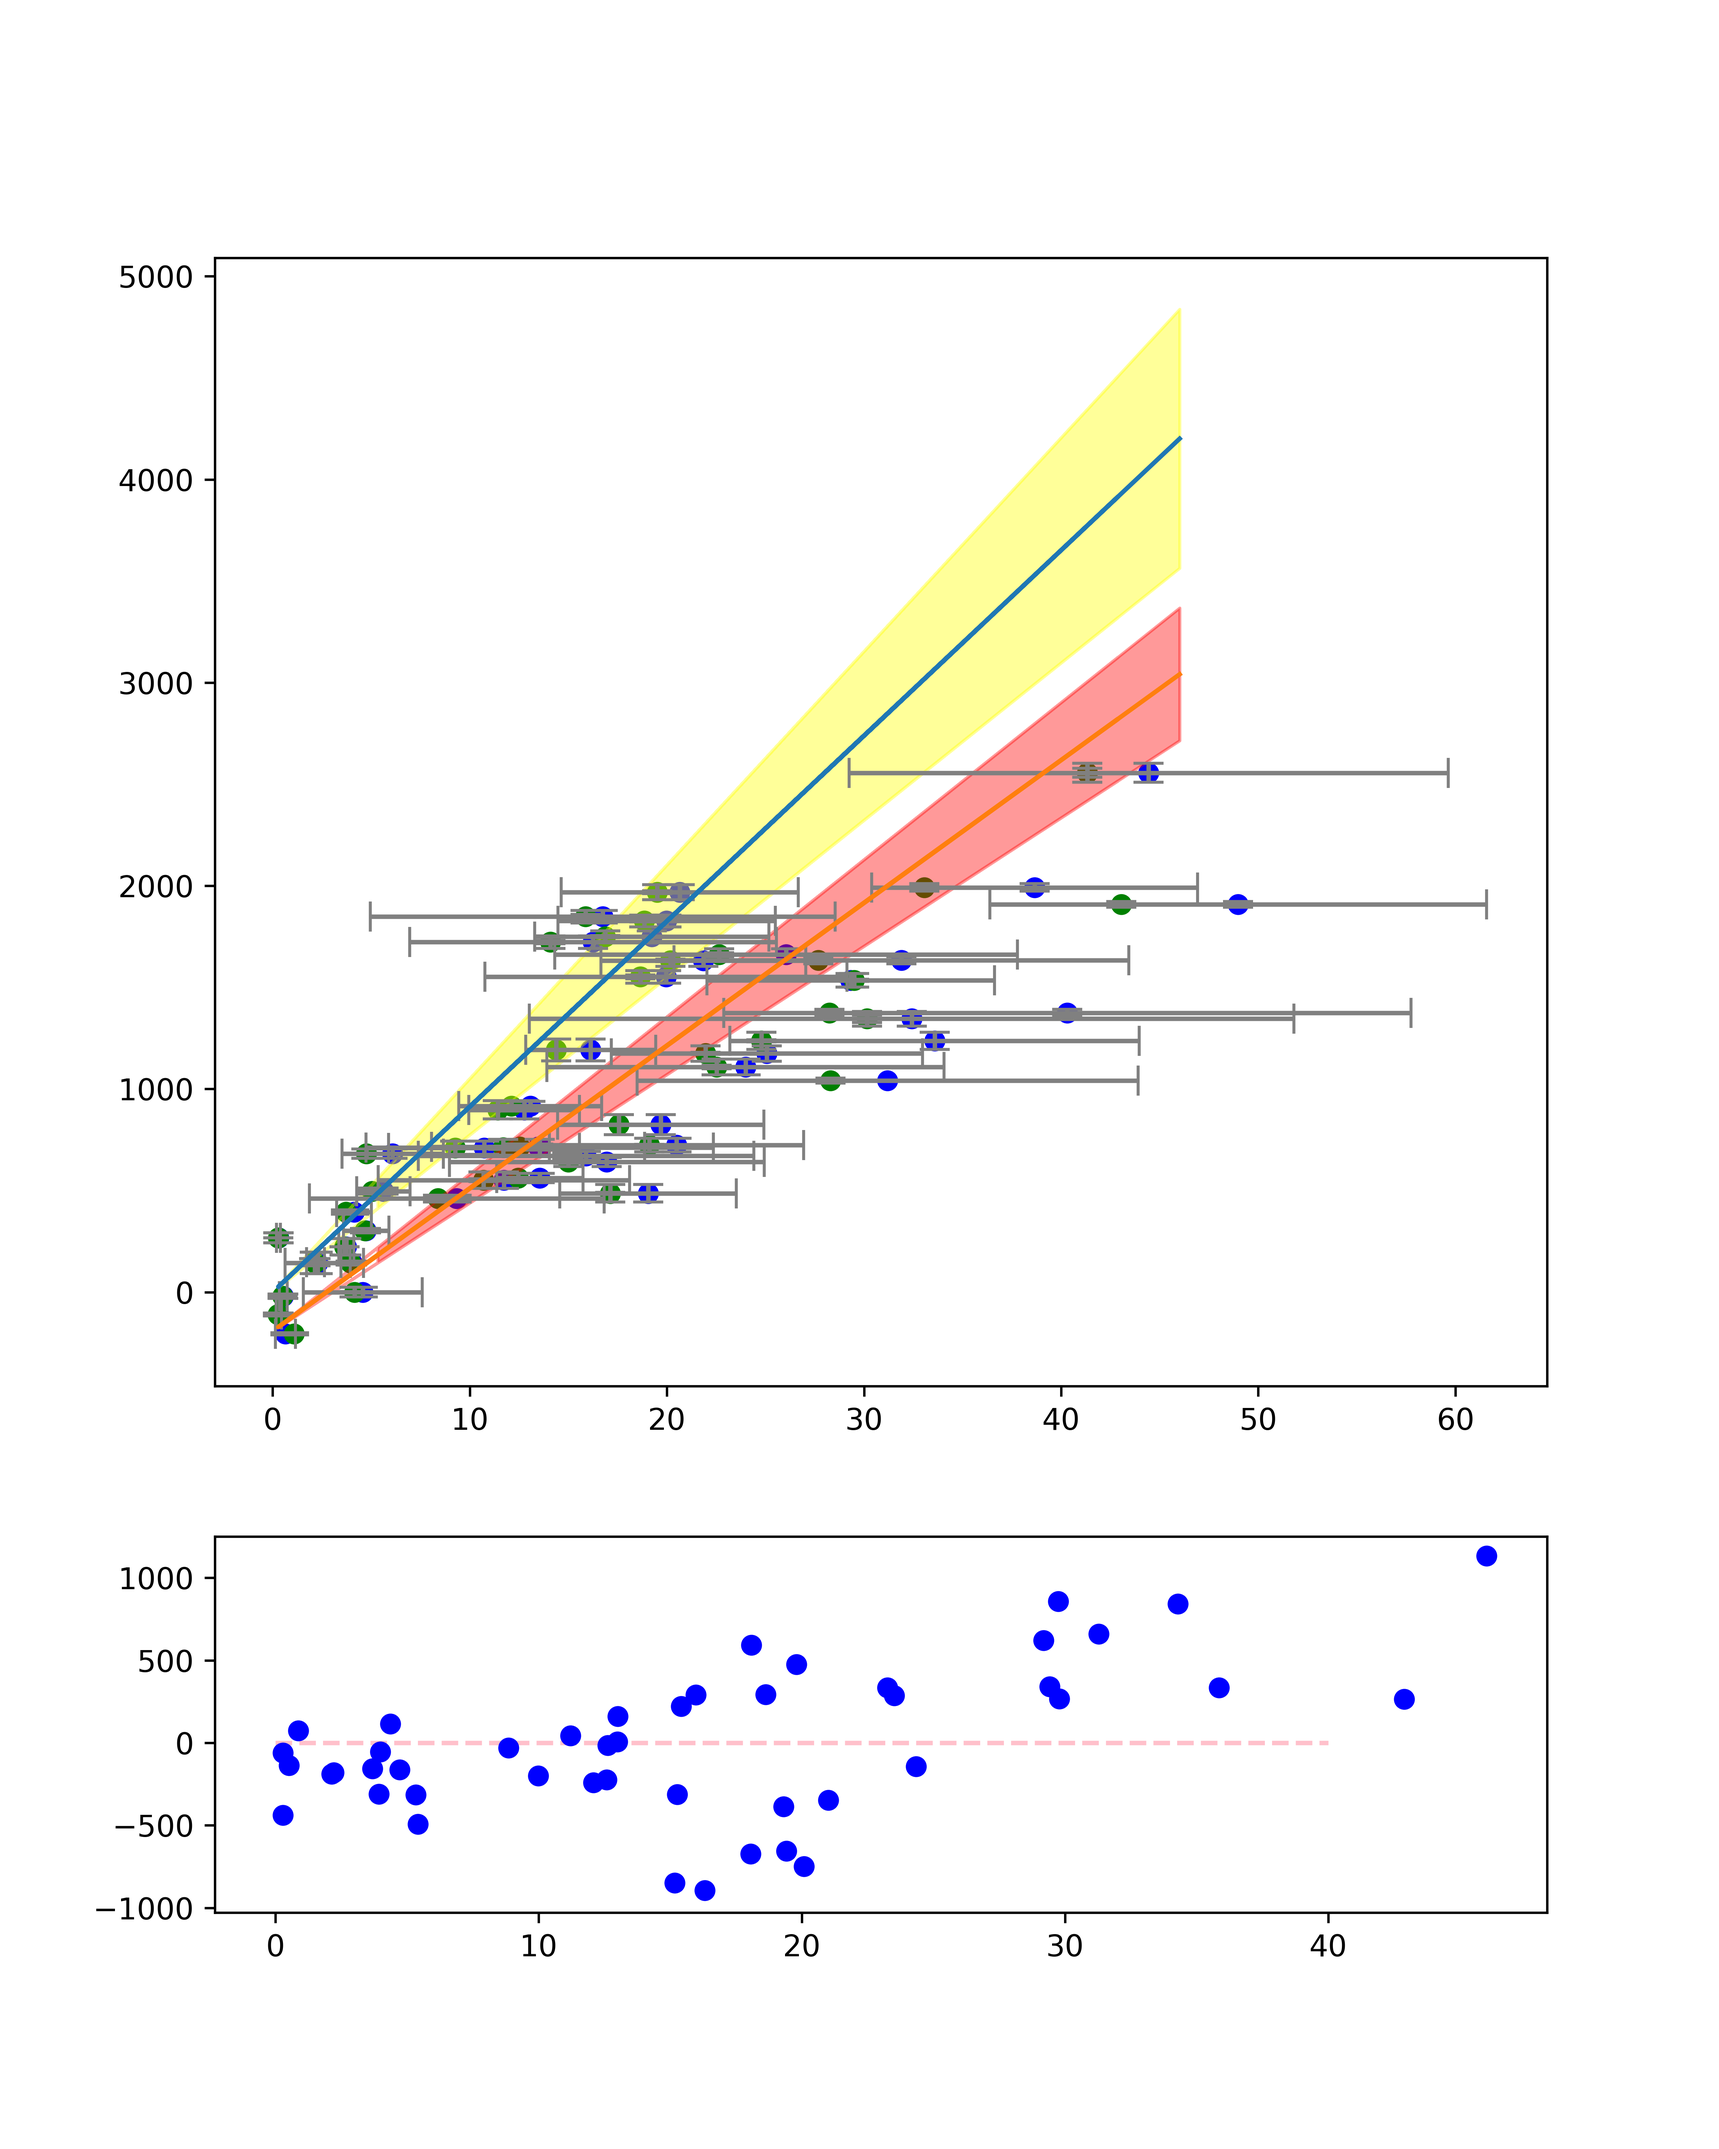
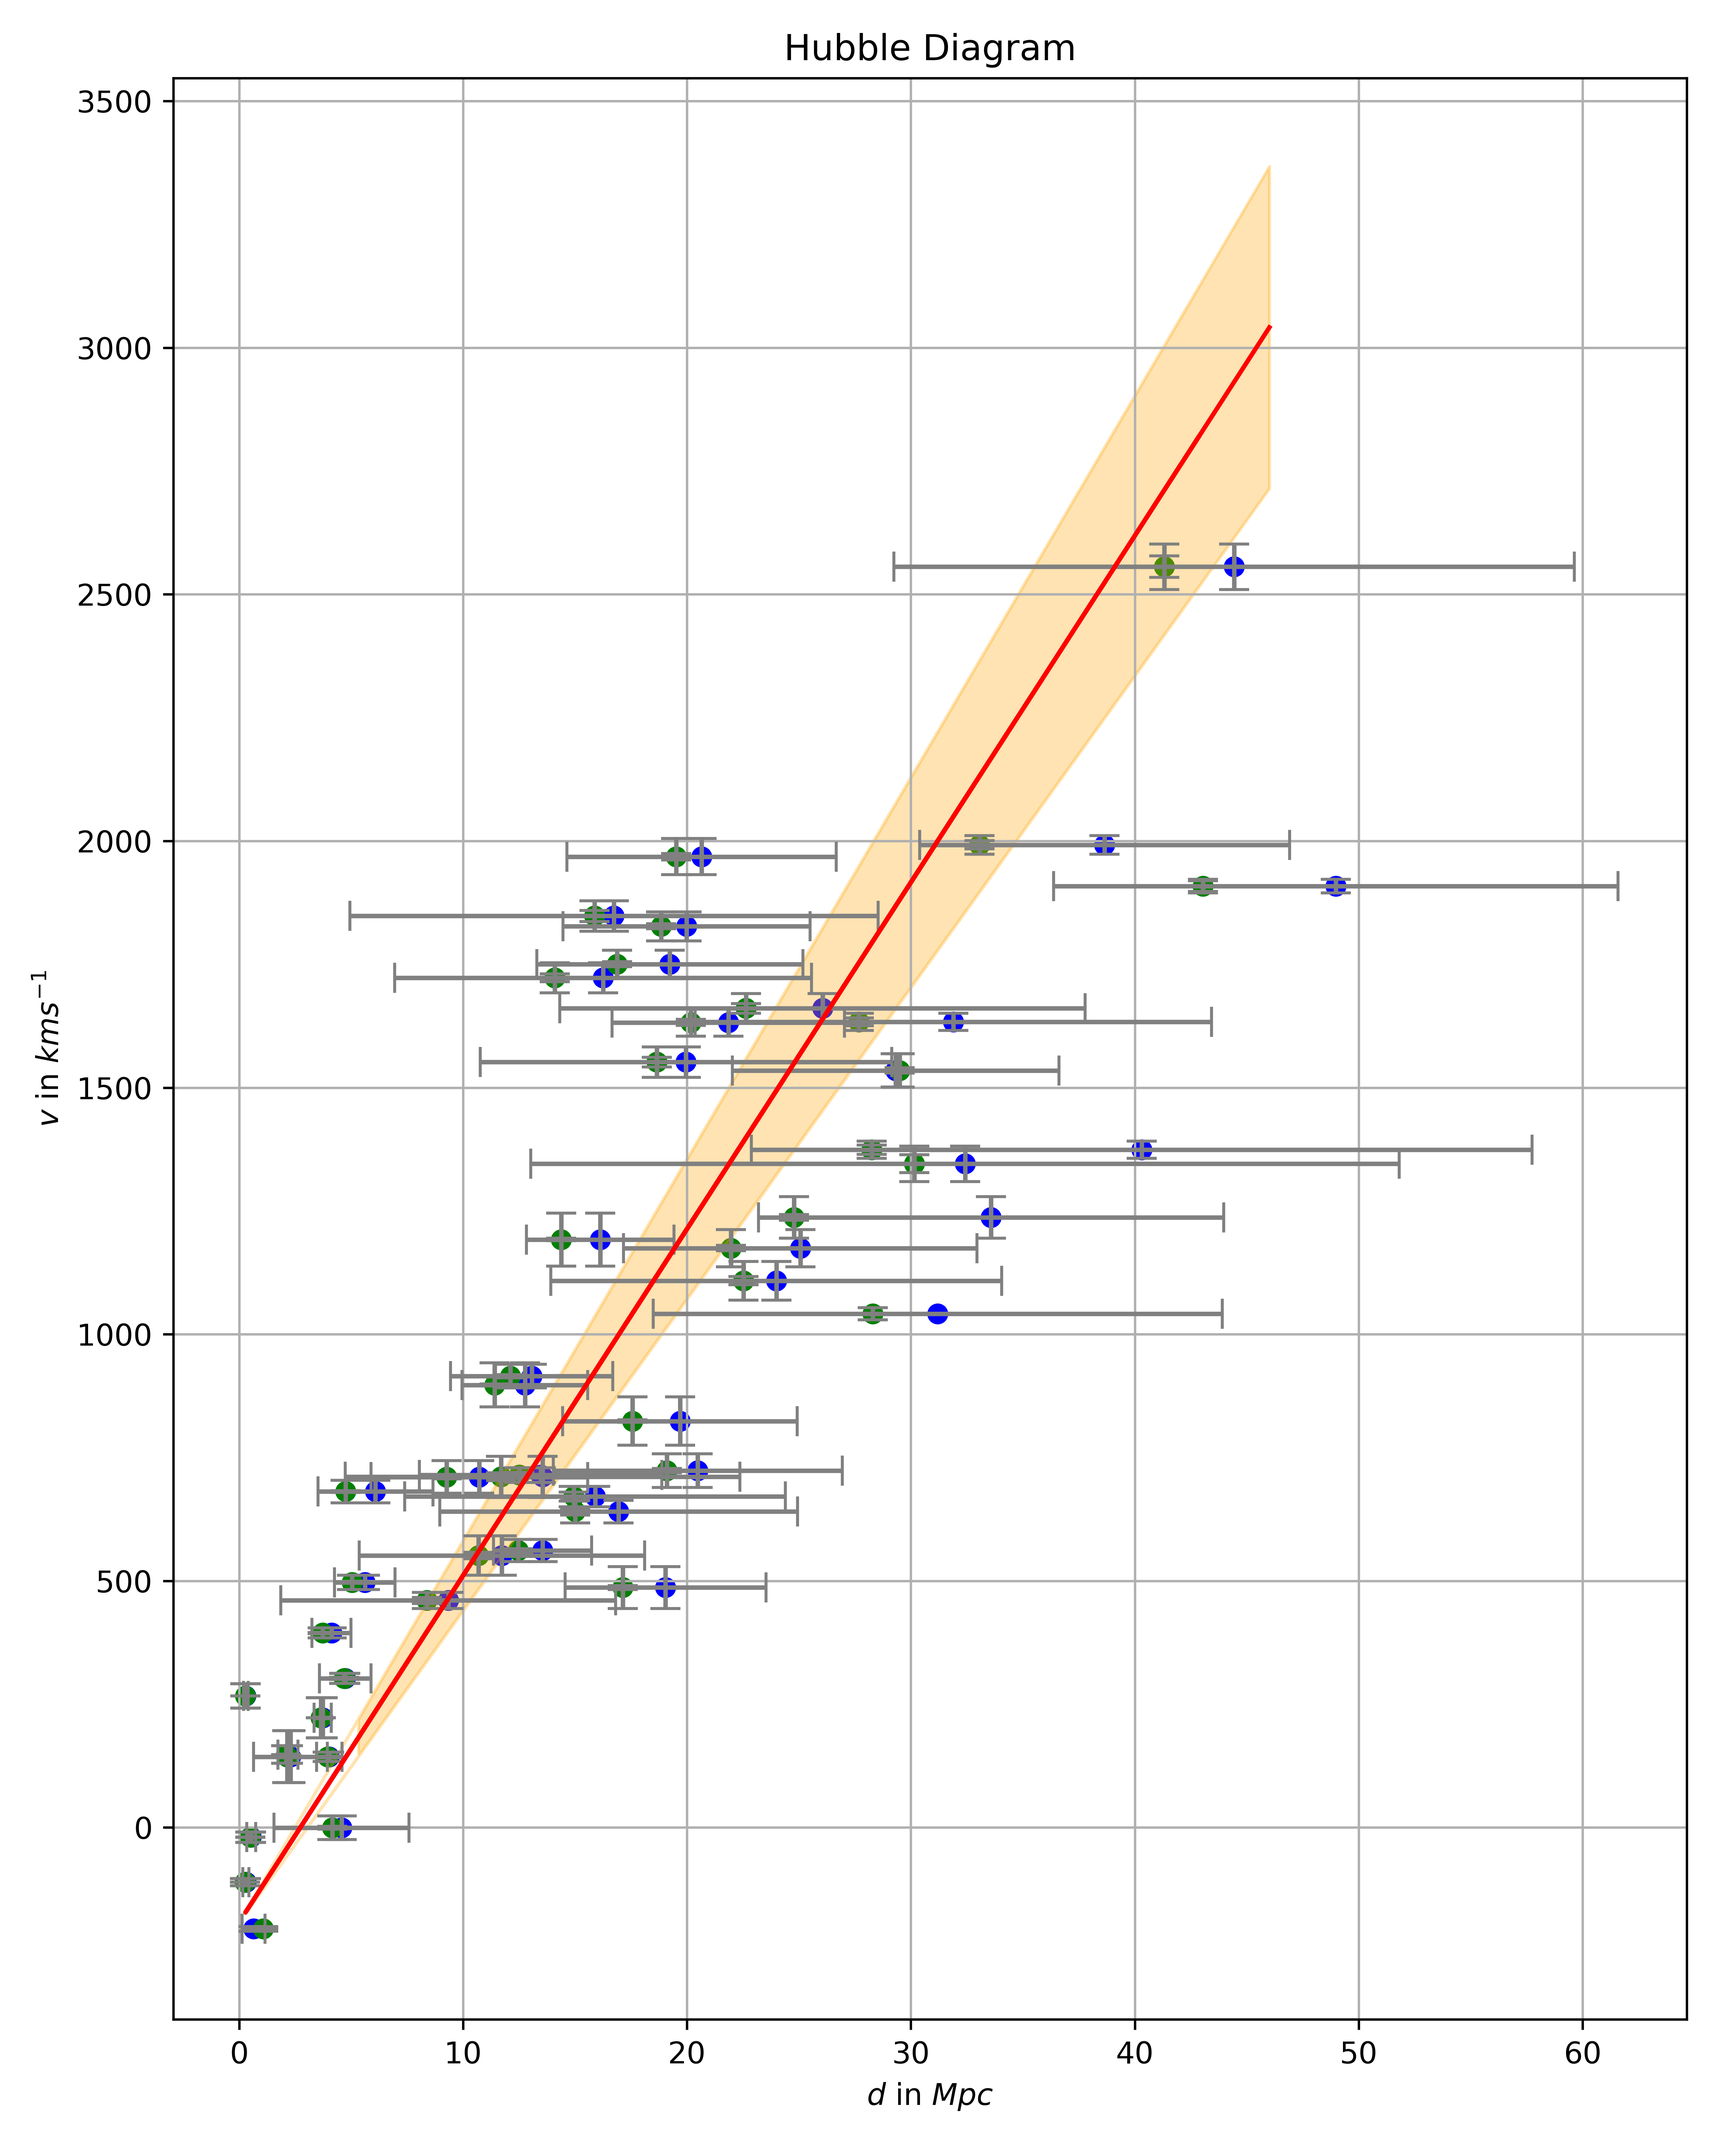
dev code finished

diff --git a/dev/dev_hubbleconstant.py b/dev/dev_hubbleconstant.py
@@ -100,17 +100,20 @@ v_error = [data/1000000 for data in v_error]
 i_data = [data/1000000 for data in i_data]
 i_error = [data/1000000 for data in i_error]
 
-fig3, ax = plt.subplots(2, 1, figsize=(8, 10), gridspec_kw={'height_ratios': [3, 1]})
 
-ax[0].scatter(v_data, velocities_data, color='blue')
-ax[0].scatter(i_data, velocities_data, color='green')
+# starting figure
+fig3, ax = plt.subplots(1, 1, figsize=(8, 10))
 
-ax[0].errorbar(v_data, velocities_data, yerr=velocities_error, fmt='none', color='gray', capsize=5)
-ax[0].errorbar(v_data, velocities_data, xerr=v_error, fmt='none', color='gray', capsize=5)
+ax.scatter(v_data, velocities_data, color='blue')
+ax.scatter(i_data, velocities_data, color='green')
 
-ax[0].errorbar(i_data, velocities_data, yerr=velocities_error, fmt='none', color='gray', capsize=5)
-ax[0].errorbar(i_data, velocities_data, yerr=i_error, fmt='none', color='gray', capsize=5)
+ax.errorbar(v_data, velocities_data, yerr=velocities_error, fmt='none', color='gray', capsize=5)
+ax.errorbar(v_data, velocities_data, xerr=v_error, fmt='none', color='gray', capsize=5)
 
+ax.errorbar(i_data, velocities_data, yerr=velocities_error, fmt='none', color='gray', capsize=5)
+ax.errorbar(i_data, velocities_data, yerr=i_error, fmt='none', color='gray', capsize=5)
+
+# computing mean for both filters
 distances = list()
 distances_error = list()
 for i in range(len(v_data)):
@@ -121,9 +124,10 @@ for i in range(len(v_data)):
 # Define the linear model
 def linear_func(B, x):
     return B[0] * x + B[1]  # B[0] = slope, B[1] = intercept
-
-data = Data(distances, velocities_data, wd=1/np.array(distances_error)**2)
 model = Model(linear_func)
+
+# taking into account distance errorbars
+data = Data(distances, velocities_data)
 
 # Run fitting model
 odr = ODR(data, model, beta0=[1, 0])  # Initial guess: slope=1, intercept=0
@@ -135,88 +139,36 @@ H0_err = output.sd_beta[0]
 intercept = output.beta[1]
 
 # Print results
-print(f'Hubble constant = {H0:.4f} ± {H0_err:.4f}')
+print(f'H0 = {H0:.4f} ± {H0_err:.4f}')
 
 fit_function = H0 * np.array(distances) + intercept
 fit_low = (H0-H0_err) * np.array(distances) + intercept
 fit_high = (H0+H0_err) * np.array(distances) + intercept
 
-# withtout errors
-data = Data(distances, velocities_data)
-odr = ODR(data, model, beta0=[1,0])
-output = odr.run()
+ax.plot(distances, fit_function, color='r')
+ax.fill_between(distances, fit_low, fit_high, color='orange', alpha=0.3)
 
-# extract results
-H0 = output.beta[0]
-H0_err = output.sd_beta[0]
-intercept = output.beta[1]
-
-# Print results
-print(f'Hubble constant = {H0:.4f} ± {H0_err:.4f}')
-
-fit_f2 = H0 * np.array(distances) + intercept
-fit_l2 = (H0-H0_err) * np.array(distances) + intercept
-fit_h2 = (H0+H0_err) * np.array(distances) + intercept
-
-ax[0].plot(distances, fit_function)
-ax[0].fill_between(distances, fit_low, fit_high, color='yellow', alpha=0.4)
-
-ax[0].plot(distances, fit_f2)
-ax[0].fill_between(distances, fit_l2, fit_h2, color='red', alpha=0.4)
-
-# compute residuals
-residuals_f1 = fit_function - np.array(velocities_data)
-residuals_f2 = fit_f2 - np.array(velocities_data)
-
-ax[1].hlines(0, 0, 40, color="pink", linestyle='--')
-ax[1].errorbar(distances, residuals_f2, yerr=velocities_error, fmt='o', color='blue')
-
-std_devf1 = np.std(residuals_f1)
-std_devf2 = np.std(residuals_f2)
-print(f'sigma f1: {std_devf1}')
-print(f'sigma f2: {std_devf2}')
-
+plt.title("Hubble Diagram")
+plt.xlabel("$d$ in $Mpc$")
+plt.ylabel("$v$ in $km s^{-1}$")
+plt.tight_layout()
+plt.grid('True')
 fig3.savefig('./dev/figs/hubblediagram.png', dpi=600)
-
-
-##### figure für BLL
-bll, ax = plt.subplots(1, 1)
-
-ax.scatter(v_data, velocities_data, color='blue')
-ax.scatter(i_data, velocities_data, color='green')
-
-ax.errorbar(v_data, velocities_data, yerr=velocities_error, fmt='none', color='gray', capsize=3)
-ax.errorbar(v_data, velocities_data, xerr=v_error, fmt='none', color='gray', capsize=3)
-
-ax.errorbar(i_data, velocities_data, yerr=velocities_error, fmt='none', color='gray', capsize=3)
-ax.errorbar(i_data, velocities_data, yerr=i_error, fmt='none', color='gray', capsize=3)
-
-ax.plot(distances, fit_f2, color='r')
-ax.fill_between(distances, fit_l2, fit_h2, color='orange', alpha=0.2)
-
-ax.set_title("Cepheid Hubble Diagram")
-ax.set_xlabel("Distances [$Mpc$]")
-ax.set_ylabel("Velocities [$km s^{-1}$]")
-
-bll.tight_layout()
-bll.savefig('./dev/figs/cepheid_hubble_diagram.png', dpi=600)
-
-
-
-
 
 
 
 
 # Hubble constant with inverse polyfit
-x = np.array(velocities_data)
-y = np.array(distances)
+# This confirms the axis-bias in using the `np.polyfit()` function.
 
-slope, intercept = np.polyfit(x, y, 1)
-fit_linear_regression = (1/slope) * x + intercept
-residuals = x - fit_linear_regression
-weighted_residuals = residuals / np.array(distances_error)
-mse = np.sum(weighted_residuals ** 2) / (len(x) - 2)
-variance = np.sum((x - np.mean(x)) ** 2)
-std_error_slope = np.sqrt(mse / variance)
-print(f'Hubble Constant: {1/slope} ± {std_error_slope}')
+# x = np.array(velocities_data)
+# y = np.array(distances)
+#
+# slope, intercept = np.polyfit(x, y, 1)
+# fit_linear_regression = (1/slope) * x + intercept
+# residuals = x - fit_linear_regression
+# weighted_residuals = residuals / np.array(distances_error)
+# mse = np.sum(weighted_residuals ** 2) / (len(x) - 2)
+# variance = np.sum((x - np.mean(x)) ** 2)
+# std_error_slope = np.sqrt(mse / variance)
+# print(f'Hubble Constant: {1/slope} ± {std_error_slope}')
